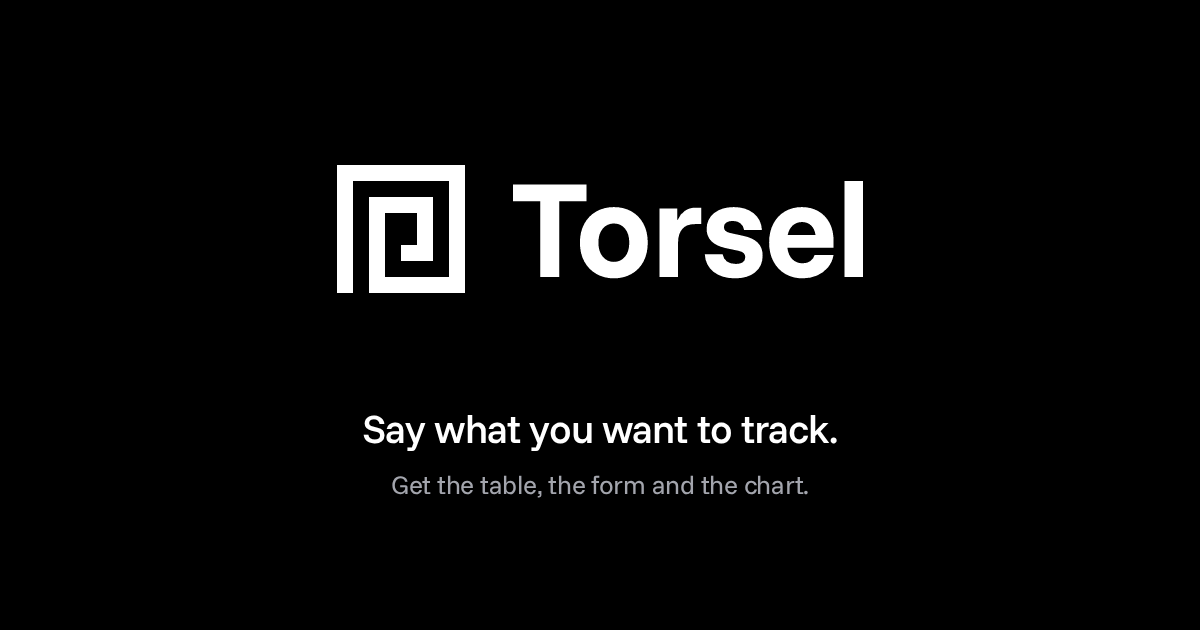
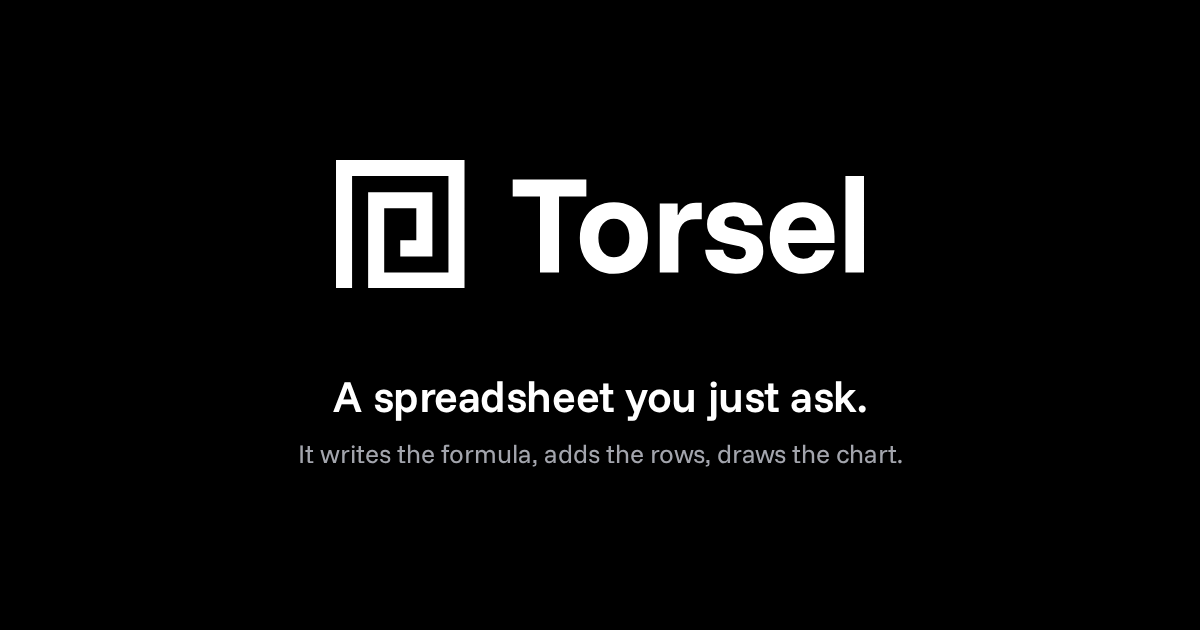
feat(site): draw the social cards with the new tagline in english and french

diff --git a/src/lib/ui/icons.test.ts b/src/lib/ui/icons.test.ts
@@ -50,5 +50,7 @@ describe('browser icons', () => {
 
 	it('the social card base is 1200x630', () => {
 		expect(pngSize(fromStatic('og-base.png'))).toBe('1200x630');
+		expect(pngSize(fromStatic('og.png'))).toBe('1200x630');
+		expect(pngSize(fromStatic('og-fr.png'))).toBe('1200x630');
 	});
 });
